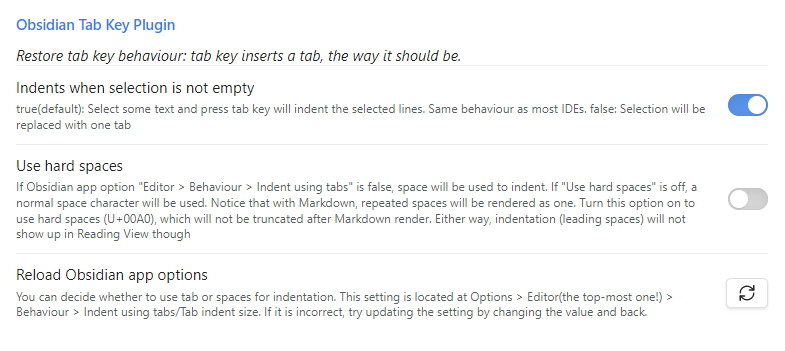
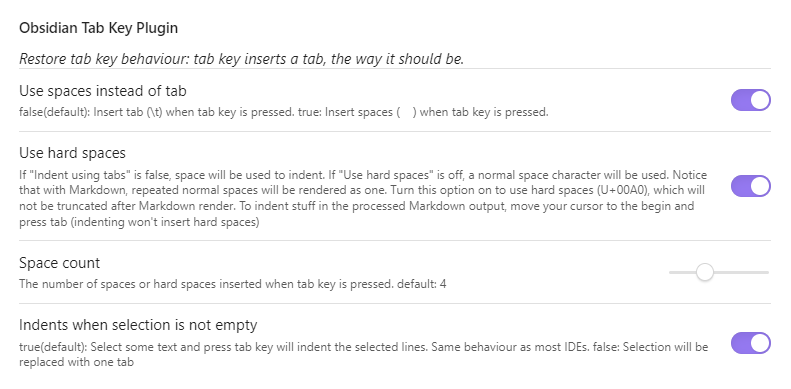
Updated README.md

diff --git a/README.md b/README.md
@@ -8,22 +8,17 @@ it solves the problem mentioned in this forum thread: https://forum.obsidian.md/
 ---
 
 ![](img_plugin-settings.png)\
-The tab key now works just like any other IDE. If you select some text and press tab, the selected lines will be indented. If nothing is selected, a tab will be inserted. There is also an option to insert tab when text is selected instead of indenting.
+The tab key now works just like any other IDE. If you select some text and press tab, the selected lines will be indented. If nothing is selected, a tab will be inserted. There is also an option to insert tab regardless.
 
 ### Indent using tabs
-Tabs/indentation respects Obsidian app options below. In addition, you can customize the number of spaces inserted for indentation instead of fixed to 4 spaces, as opposed to only change how the tab character is rendered.
-![](img_obsidian-app-settings.png)\
-[suggested by huyz](https://github.com/jrymk/obsidian-tab-key/issues/1)
+Select some text and press tab to indent, like just about any IDE.\
+The indent action is completely unaltered, you can change "Indent using tabs" and "Tab indent size" in Editor settings to change that behavior.
 
 ### Hard space
-Hard spaces (U+00A0) as tab allows you to insert wide blanks inside text and indent lines that will also show up in the rendered Markdown. Without using hard spaces, repeated spaces (and tabs) will be rendered as one single space. You can toggle whether to use hard space instead of regular spaces.
+Hard spaces (U+00A0) as tab allows you to insert wide blanks inside text. Without using hard spaces, repeated spaces (and tabs) will be rendered as one single space. You can toggle whether to use hard space instead of regular spaces.\
+You can insert hard spaces in the beginning of a line to act like indentation. You will have to move the cursor to the beginning and press tab to insert them though. **Indenting (select text and press tab) will not insert hard spaces.**
 
 live preview/source view: (Yes, with hard spaces as indentation it still turns into a code block. Aaargh!)\
 ![](img_hard-spaces.png)\
 after render (reading view):\
 ![](img_hard-spaces-rendered.png)
-
-<mark><b>This option is off by default. If you indent in code blocks, the code might fail to run or compile because it is not a space or a tab. Copying code from the note may become extremely annoying. Only use this if you are not going to edit code blocks.</b></mark>\
-*Hard spaces for tab is generally unwanted in code blocks (enclosed in backticks \`\`\`, not the ones created by indenting), no matter it is C++ code or Dataview plugin code.*
-
-TODO: Use regular space (or tab) for indentation and tabbing inside a code block regardless of hard space setting. Since spaces works correctly in code blocks, there's no reason not to. 
